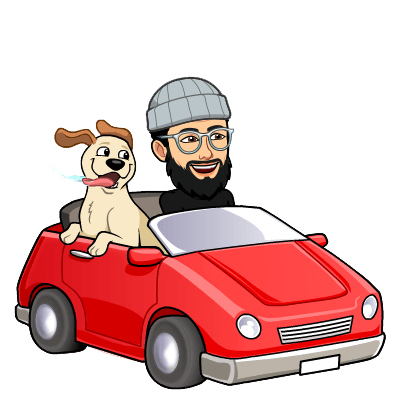
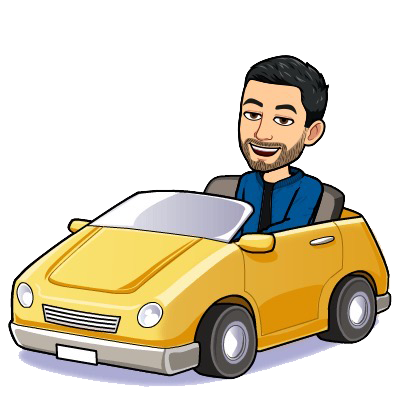
Change pictures

diff --git a/src/components/Skills.js b/src/components/Skills.js
@@ -17,7 +17,7 @@ function Skills() {
     <Layout>
       <PageTitle title={title} />
       <div className="books-pic-container">
-        <img className="books" src="/portfolio/img/bookish.png" alt="me-carrying-books" />
+        <img className="books" src="/portfolio/img/skills.png" alt="me-carrying-books" />
       </div>
 
       <PageTitle title="Frameworks / Technologies" />
@@ -52,7 +52,7 @@ function Skills() {
 const style = (
   <style jsx>{`
     .books {
-      width: 15rem;
+      width: 10rem;
       height: auto;
     }
     .books-pic-container {
@@ -76,7 +76,7 @@ const style = (
         padding-right: var(--desktop-padding);
       }
       .books {
-        width: 20rem;
+        width: 15rem;
         height: auto;
       }
     }

diff --git a/src/components/Home.js b/src/components/Home.js
@@ -30,7 +30,7 @@ function Home() {
         <div className="landing-page-container" onClick={srollDownToHelloSection}>
           <div className="landing-logo-container">
             <div className="landing-logo-wrapper">
-              <img className="avatar" src="/portfolio/img/avatar1.png" alt="avatar" />
+              <img className="avatar" src="/portfolio/img/hey.png" alt="avatar" />
               <h1 className="over">Jose</h1>
               <h1 className="dub">Maria</h1>
               <hr></hr>
@@ -67,7 +67,7 @@ const style = (
     .avatar {
       width: 5.5rem;
       height: auto;
-      margin-left: -0.5rem;
+      margin-left: 0.2rem;
     }
     .over {
       color: var(--color2);

diff --git a/src/components/About.js b/src/components/About.js
@@ -17,7 +17,7 @@ function About() {
     <Layout>
       <PageTitle title={title} />
       <div className="under-the-title">
-        <img className="dancing-avatar" src="/portfolio/img/shower.png" alt="dancing-avatar" />
+        <img className="dancing-avatar" src="/portfolio/img/tennis.png" alt="dancing-avatar" />
         <AboutText />
       </div>
       {style}
